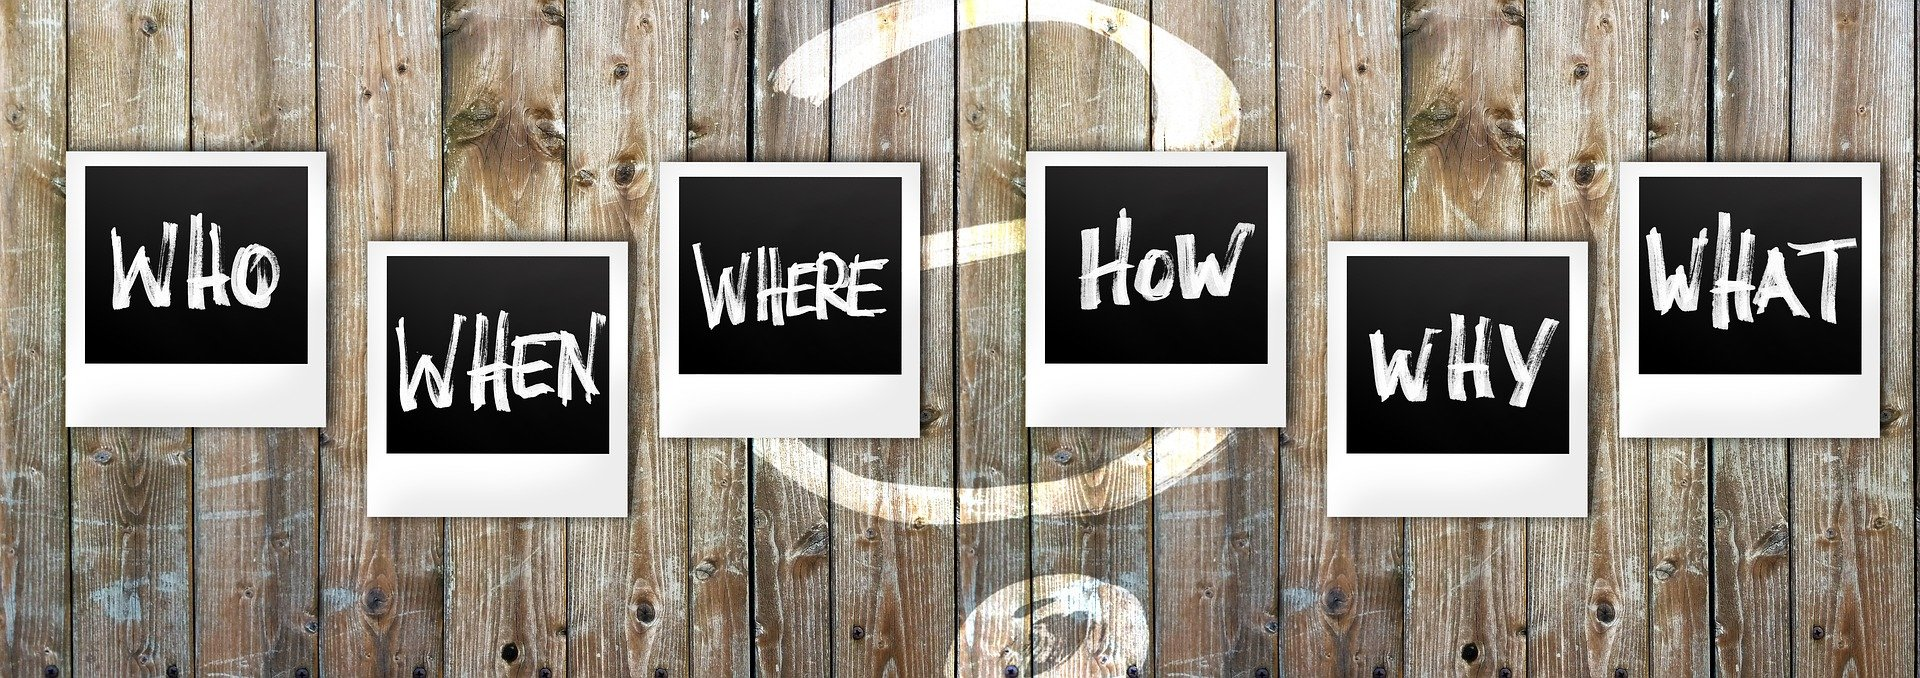
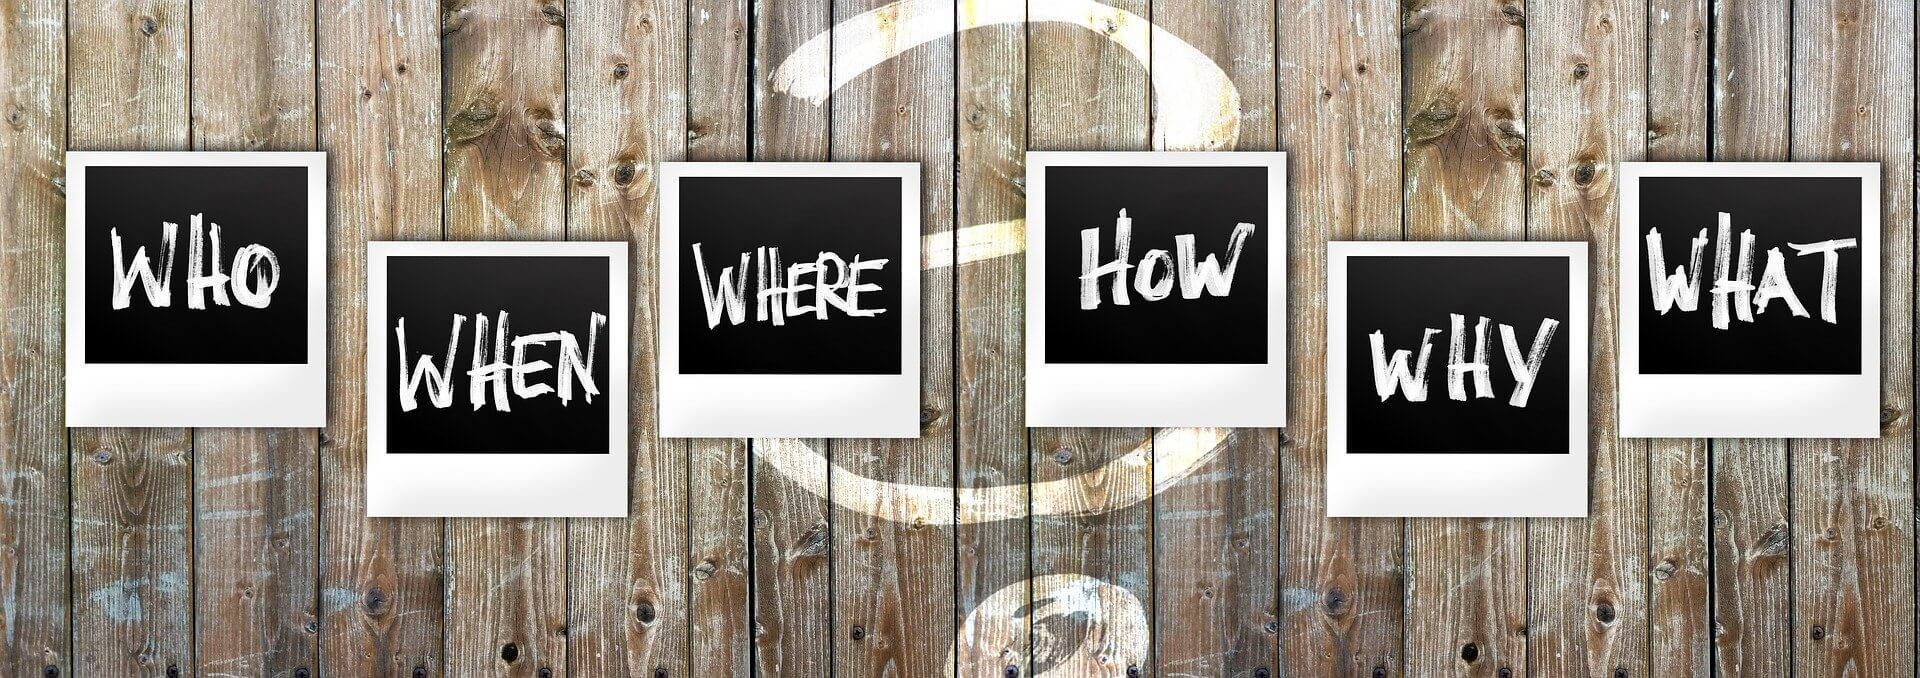
Upload compressed images

diff --git a/TESTING.md b/TESTING.md
@@ -940,15 +940,6 @@ All of the following HTML pages were validated by using [W3C Markup Validation S
 
 
 
-
--— **Data Sensitive HTML Pages** —
-
-Because some of the pages of the site contain an Object ID in the url the validation results of these pages are listed below instead of using photos.
-
-* **Edit Article Page** &#40; `edit_article.html` &#41;: 0 Errors & 0 Warnings Found
-* **Edit Topic Page** &#40; `edit_topic.html` &#41;: 0 Errors & 0 Warnings Found
-* **Edit Further Reading Page** &#40; `edit_further_reading.html` &#41;: 0 Errors & 0 Warnings Found
-
 ### CSS
 All CSS was validated by using [W3C Jigsaw CSS Validation Service](https://jigsaw.w3.org/css-validator/) with no issues detected. A screenshot of these results can be seen below:
 
@@ -986,13 +977,13 @@ All CSS was validated by using [W3C Jigsaw CSS Validation Service](https://jigsa
 <img src="documentation/doc_images/stripejs2-jshint.png" width="250" height="350" alt="stripe-2-JShint-validator">
 
 ### Python 
-* The app.py file was passed through the [PEP8](http://pep8online.com/) validator and the results can be seen below:
+* All files were passed through the [PEP8](http://pep8online.com/) validator and the results were all found to be PEP8 Compliant with the exception of the following four lines in the settings.py file:
+    - line 145
+    - line 148
+    - line 151
+    - line 154
 
-* **checkout app**
-
-
-
-## Linters
+These lines were auto generated by Django and left as found to maintain the integrity of the application.
 
 
 

diff --git a/README.md b/README.md
@@ -35,12 +35,12 @@
       * [Code](#Code)
       * [Acknowledgements](#Acknowledgements)
 
-# MotherFolklore
+# Joyce English School
 
 
-![Website MockUp](assets/documentation/doc-images/MS3-Mockup.png)
+![Website MockUp](documentation/doc_images/MS4-mockup.png)
 
-The live website can be viewed [here]()
+The live website can be viewed [here](https://joyce-english-school.herokuapp.com/)
 
 
 # UX
